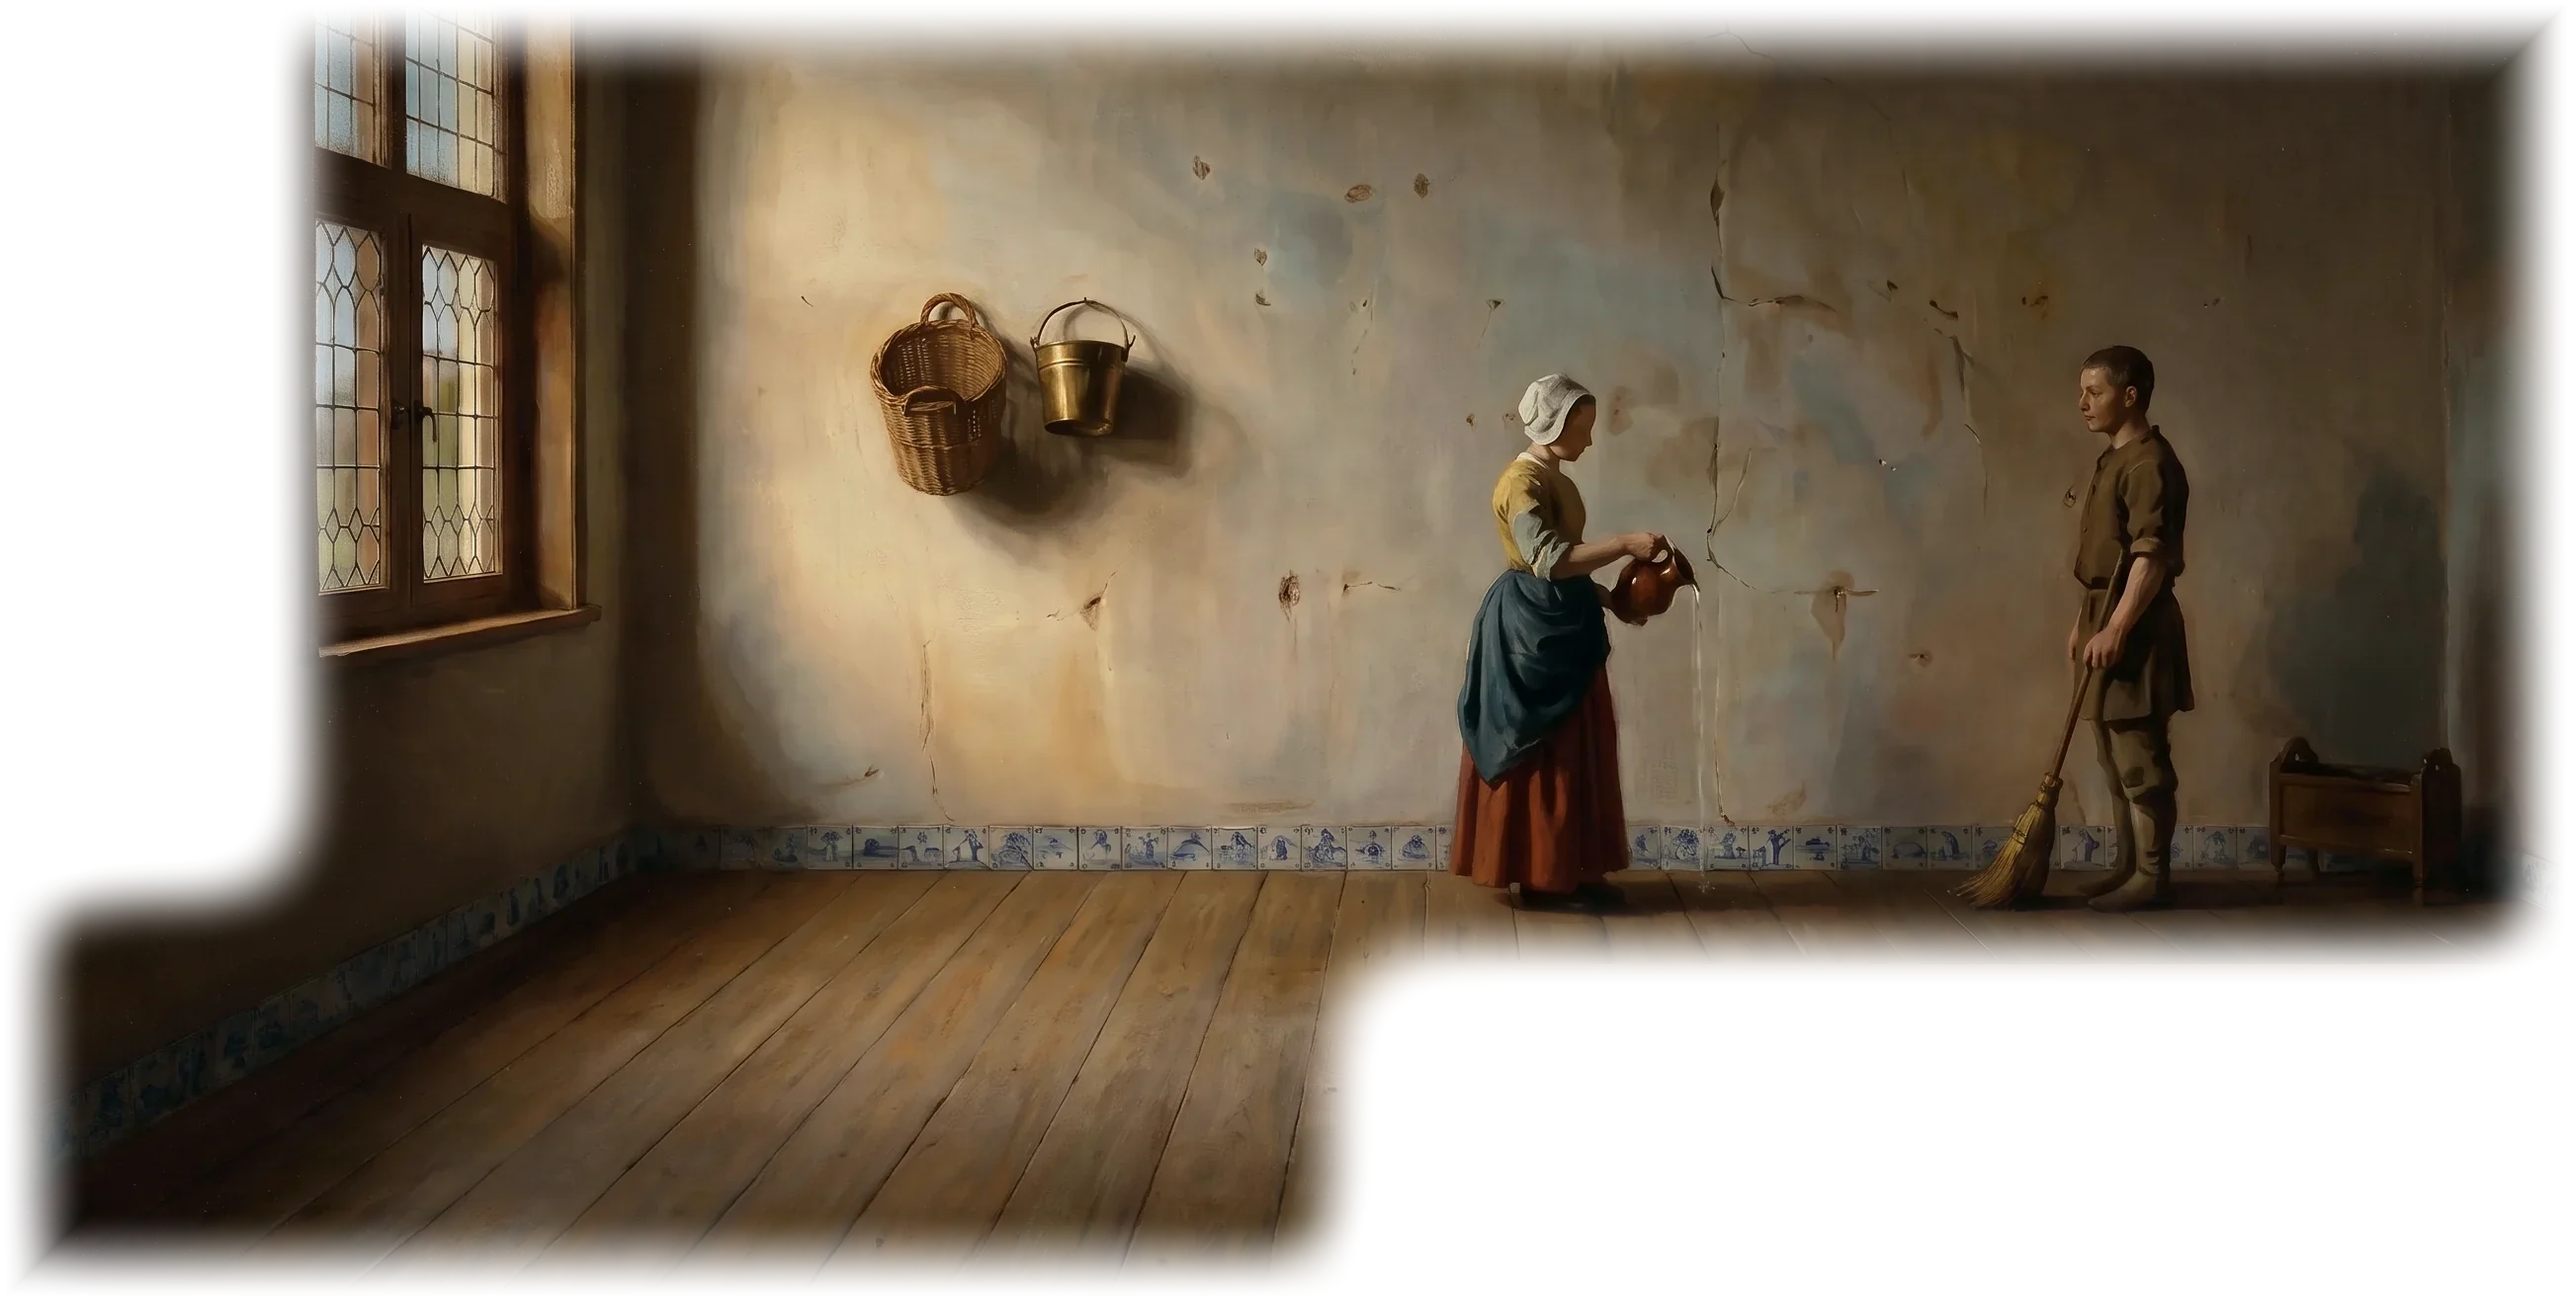
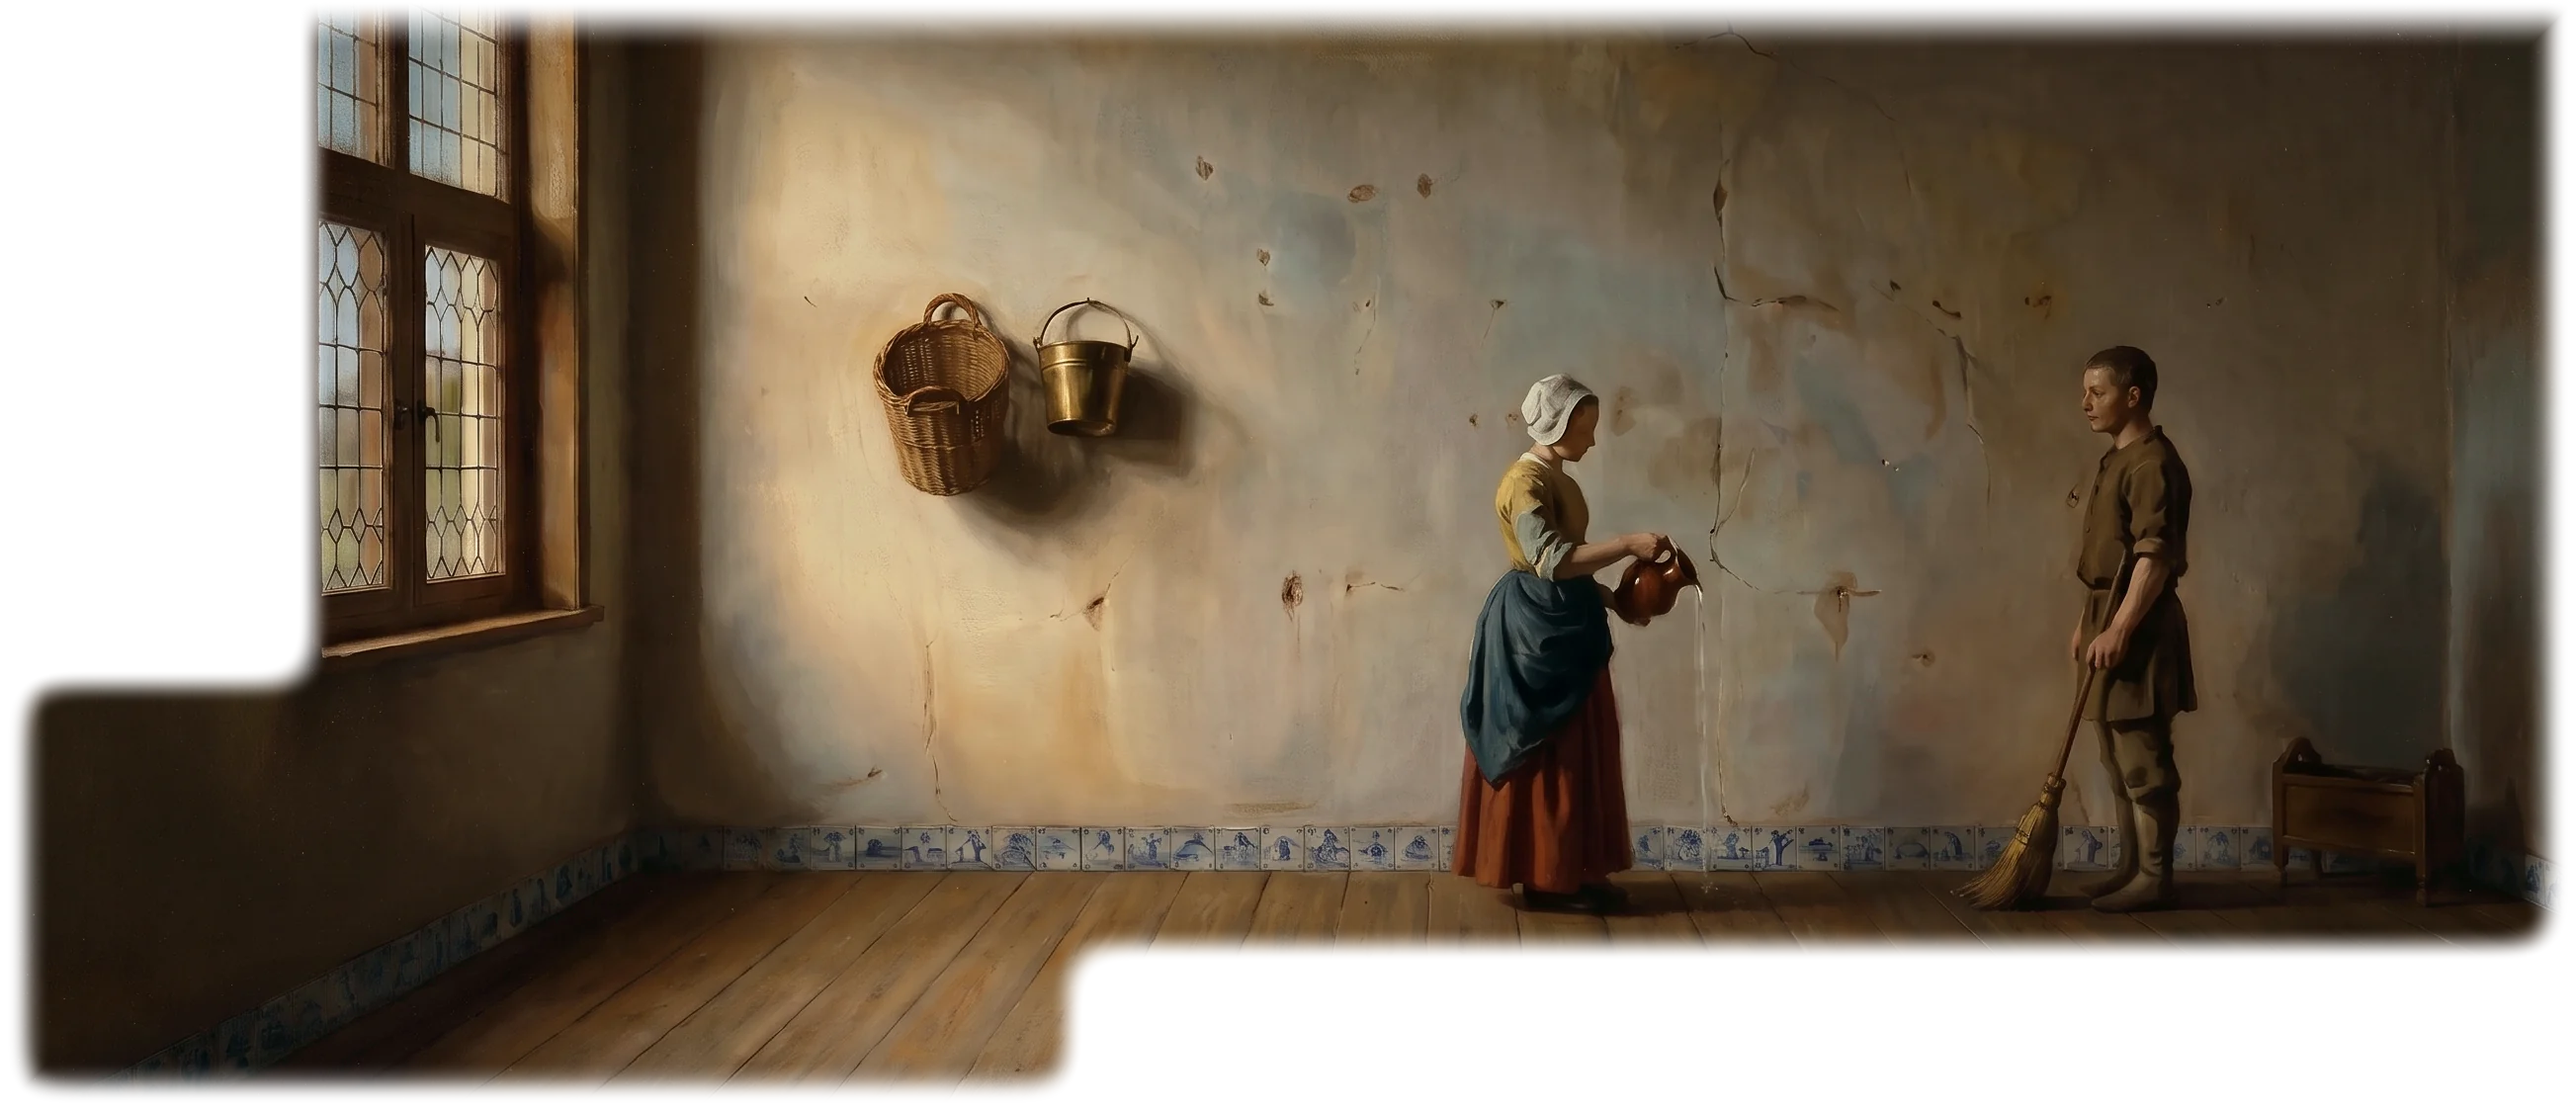
Build 345: the parlour at its old framing, a small piece of new wall and floor for the two
Claude-Session: https://claude.ai/code/session_017HrTSDbTfgR6nVdMrBTyd5

diff --git a/rooms.js b/rooms.js
@@ -238,7 +238,7 @@ const RM = (() => {
       pic: 'room2-wide', FY: 1262, cam0: 140, tone: [300, 288, 268],
       // the painting widened by the image model (build 344): the old room laid exactly where it was (0.716 of the new picture's
       // pixels, found by matching), and the new front floor open at its bottom left, where the two stand
-      lshape: { ox: 449.46, oy: -6.51, k: .716, bx: 133, by: 0 }, vz: .54, vx: 40, vy: -40,
+      lshape: { ox: 449.46, oy: -6.51, k: .716, bx: 130, by: 0 }, vx: 24, vy: -14,
       enter() { this.dust = []; this.haze = .22; this.wet = []; const r = rngR(5); for (let i = 0; i < 70; i++) this.dust.push({ x: 300 + r() * 2800, y: 300 + r() * 900, vx: 0, vy: 0, s: 2 + r() * 5, a: .5 + r() * .5, p: r() * 7 }); },
       run() { talk([[N, 'He led him into a very large parlour, full of dust, because it was never swept.'], [TIP, 'Touch the broom.', 'broom']], () => { ph = 'sweep'; t = 0; G.state = 'auto'; }); },
       act(sx, sy) {
@@ -267,7 +267,7 @@ const RM = (() => {
         for (const w of this.wet) { w.vy += .35; w.x += w.vx; w.y += w.vy; w.l++; }
         this.wet = this.wet.filter(w => w.y < 1260);
       },
-      people(c) { visitor(c, 'I', 330, 1, 1.1, 1, -390); visitor(c, 'C', -60, 1, 1.1, 1, -390); },
+      people(c) { visitor(c, 'I', 330, 1, 1.03, 1, -150); visitor(c, 'C', -200, 1, 1.03, 1, -150); },
       over(c) {
         const hz = Math.min(.2, this.haze * .75), LS = R.lshape, im = pics[R.pic];
         if (LS && im) {

diff --git a/index.html b/index.html
@@ -162,7 +162,7 @@ body.portrait #rot{display:block}
   </div>
   <button id="snd" aria-label="Sound on or off">♪</button>
   <button id="autoWalk" aria-label="He walks on by himself"><svg viewBox="0 0 24 24"><path d="M5 6l6 6-6 6M12 6l6 6-6 6"/></svg></button>
-  <div id="build">build 344 · Nov 18 2026</div>
+  <div id="build">build 345 · Nov 18 2026</div>
 </div></div>
 <div id="rot">Turn your phone sideways for a bigger picture</div>
 <script>
@@ -2534,7 +2534,7 @@ document.getElementById('on2').onclick = () => SL.on ? go3() : HL.on ? goRoom('d
 </script>
 <script src="slough.js?v=319"></script>
 <script src="hill.js?v=343"></script>
-<script src="rooms.js?v=344"></script>
+<script src="rooms.js?v=345"></script>
 <script src="keepsakes.js?v=309"></script>
 <script src="editor.js?v=261"></script>
 </body>

diff --git a/story-lab.html b/story-lab.html
@@ -3,4 +3,4 @@
 <title>Pilgrim's Progress</title>
 <!-- The game moved to the main page in build 119. This page only sends old links (and Home Screen icons) on to it. -->
 <script>location.replace('./' + location.search + location.hash);</script>
-<p><a href="./">Pilgrim's Progress</a> <span id="build">build 344 · Nov 18 2026</span></p>
+<p><a href="./">Pilgrim's Progress</a> <span id="build">build 345 · Nov 18 2026</span></p>

diff --git a/CLAUDE.md b/CLAUDE.md
@@ -35,7 +35,7 @@ A gentle side-scrolling story walk for kids ages 7 to 10, following Bunyan's *Th
 ## Working with the owner
 
 - **Repo `Twhidbey/pilgrims-progress`, branch `main`. Pushing `main` publishes the game** (GitHub Pages, https://twhidbey.github.io/pilgrims-progress/, 1 to 2 minutes). Commit and push after every change, then tell the owner it is live; a phone may show an old copy, so suggest `?v=N`. **Always give two links when a build is live (owner, build 187: "can you output [the editor link] by default and make note in notes"):** the game, `https://twhidbey.github.io/pilgrims-progress/?v=N`, and the editor link, `https://twhidbey.github.io/pilgrims-progress/?edit&v=N` (skip arrows, see Testing); add `&level=2` or `&level=3` when the change is in that level.
-- **Build stamp** (`id="build"`, bottom right): `build N · date` in `index.html` and `story-lab.html`. Bump N on **every** push that changes the game, so one number means one push. Keep the form `id="build">... build N` (the page's self-update reads it). **Currently build 344.** The two script tags at the end of `index.html` carry `?v=N` (`slough.js?v=`, `hill.js?v=`): set them to the build that last changed each file, so phones fetch the new copy. Several chats push at once: `git fetch` and rebase on `origin/main` just before pushing, and take the next number after whatever is there.
+- **Build stamp** (`id="build"`, bottom right): `build N · date` in `index.html` and `story-lab.html`. Bump N on **every** push that changes the game, so one number means one push. Keep the form `id="build">... build N` (the page's self-update reads it). **Currently build 345.** The two script tags at the end of `index.html` carry `?v=N` (`slough.js?v=`, `hill.js?v=`): set them to the build that last changed each file, so phones fetch the new copy. Several chats push at once: `git fetch` and rebase on `origin/main` just before pushing, and take the next number after whatever is there.
 - **SPEND AS LITTLE AS POSSIBLE (owner, build 106: "can you minimize spending - it's been pretty expensive for me last few days").** Video about 56 cents a try; a picture about 15 cents (`gemini-3-pro-image`); voice about a cent a line. **Before any paid call: say the cost and wait for a yes; keep the running total in `HANDOFF.md`.** Ways to save, in order: (1) do it in code first (breathing, sway, cloth and hair movement, small moves by warping a still, mirroring, tinting, reusing a figure); (2) build first and last frames from frames we already have; (3) draft pictures on `gemini-2.5-flash-image` (about a third of the price), the pro model only for the final; (4) show the owner a still before any video; (5) get two clips from one video (play backwards or back and forth); (6) write video prompts that pass the safety filter first time (no "sunk", "drowning", "thrashing", "desperate", "frightened"; say "thick sticky mud", "heaves", "cross and grumbling"); (7) a shorter video if the API offers one cheaper (not yet checked).
 - **Keep `CLAUDE.md` and `HANDOFF.md` updated after every change.** The repo is public: no names, emails or other personal details in notes, code or commits.
 - **Players:** kids 7 to 10, mostly on an iPhone. Gentle: no lives, no game over, read-aloud words, short simple sentences.
@@ -423,6 +423,8 @@ Owner: "is there a way to get pause and get menu that allows us to navigate away
 **Build 341: the floor goes on into the frame (owner, of build 337: "no not enlarge room picture but actually extend room floor").** Build 337's enlarging is taken back (rooms 2 and 3 at the common `VZ` .64 again). A room may name sides in `ext` ('L', 'R'): there its floor band (from 30 picture px above the floor line to the painting's foot) is carried on past the edge into the dark (`extBake`, `extFloor`, baked once per room and side): taken from 170 px in (`EXT_OFF`: the paintings were darkened round their edges when made, so the very edge is dull), mirrored outward 760 px (`EXT_L`), laid 160 px back over the painting to blend across the seam (`EXT_IN`), faded out at the far end, at its top and its foot. The frame's shadow over figures is only a fifth as strong on those sides, and `floorOut` adds no pool there. Room 2 (`ext` 'L'): the Interpreter at the window (230), Christian behind him out on the carried-on floor (-190); room 3 (`ext` 'R'): the Interpreter by the arch (2420), Christian out on the floor past the right edge (2760). Nothing spent.
 
 **Build 344: THE PARLOUR WIDENED, ITS FRONT FLOOR OPEN AT THE BOTTOM LEFT (owner: "we may have to redo pic for rooms, walls need to be extended towards us (not reflected) and floorboards can be extended out to provide space for two to stand"; then, of the widened picture: "could you crop it to look like original but then use the bottom left side (uncropped) to put the two"; one `gemini-3-pro-image` picture, 21:9 at 2K, about 13 cents, right first time).** The old parlour was laid in the top middle of a 1.4-times-wider grey canvas and the model asked to paint the grey as the same room: the side walls now come forward toward us and the floorboards run forward into a wide empty front floor (a little depth, unlike the flat side view elsewhere). In the game (`assets/room2-wide.webp`, 2601 x 1317, about 170 KB; the old `room2.webp` removed): toned to the old picture by matching colour means and spreads in Lab over the old room's area; cut to the OLD painting's rectangle (found in the new picture by matching: 0.716 of its pixels, origin 449.46, -6.51) joined to the new front floor at the bottom left, every edge feathered softly (a wide blur of the shape and a 90 px fade at the picture's borders). It is drawn so the old rectangle lands exactly where the old painting was (`lshape` with ox, oy, k, bx, by in `ROOMS.r2`; `draw()` lays it unclipped and skips `edges` and the frame shadow), so every old position (broom, jug, dust, water, `FY`) still holds; the dust haze is laid through the picture's own shape (a 160 px mask canvas, stretched). The room sits a little smaller and higher (`vz` .54, `vx` 40, `vy` -40; `setView` takes `vx`/`vy`). The Interpreter (330) and Christian (-60) stand on the front floor at 1.1 their size, 390 below the old floor line (`up` -390). Checked: the broom's ring, the dust and the water all fall where they should. Spent: about 13 cents.
+
+**Build 345: the parlour back to its old framing, only a little of the new picture (owner: "you can use a lot less of the new picture (really match old framing) but then use a tiny bit of new wall and floor").** `room2-wide.webp` cut again from the same widened picture (2606 x 1124): the old painting's rectangle and only a small piece more at the bottom left (300 new-picture px of the window wall to the left, 150 px of floor below, reaching 760 px in), feathered; drawn at the common size (`vz` gone, `vx` 24, `vy` -14). The Interpreter (330) and Christian (-200) stand on that floor at 1.03 their size, 150 below the old floor line. Nothing spent.
 
 **Nothing is built** (but the house, above) The other chat designs the picture first; then a file `gate.js` (object like `SL`/`HL`), a title button 4, `go4()`, Level 3's end card "Go on".
 

diff --git a/HANDOFF.md b/HANDOFF.md
@@ -72,6 +72,8 @@ The game is `index.html` (Level 1 in the page, Level 2 in `slough.js`; no build 
 
 **Build 297 (Level 3 art chat): rocky ground round the village (a small spur of the mountain behind it, low rocks across its foot). Nothing spent.**
 
+**Build 345 (Level 4 chat): the parlour back to its old framing, with only a small piece of the new wall and floor at the bottom left for the two to stand on. Nothing spent.**
+
 **Build 344 (Level 4 chat): the parlour painted wider by the image model (side walls coming toward us, a front floor); shown cut to the old painting's shape with the new floor open at the bottom left, where Christian and the Interpreter now stand. Spent about 13 cents.**
 
 **Build 341 (Level 4 chat): the parlour and the boys' room back at the framed size; their floor now carries on out into the dark frame, and Christian stands on it. Nothing spent.**
